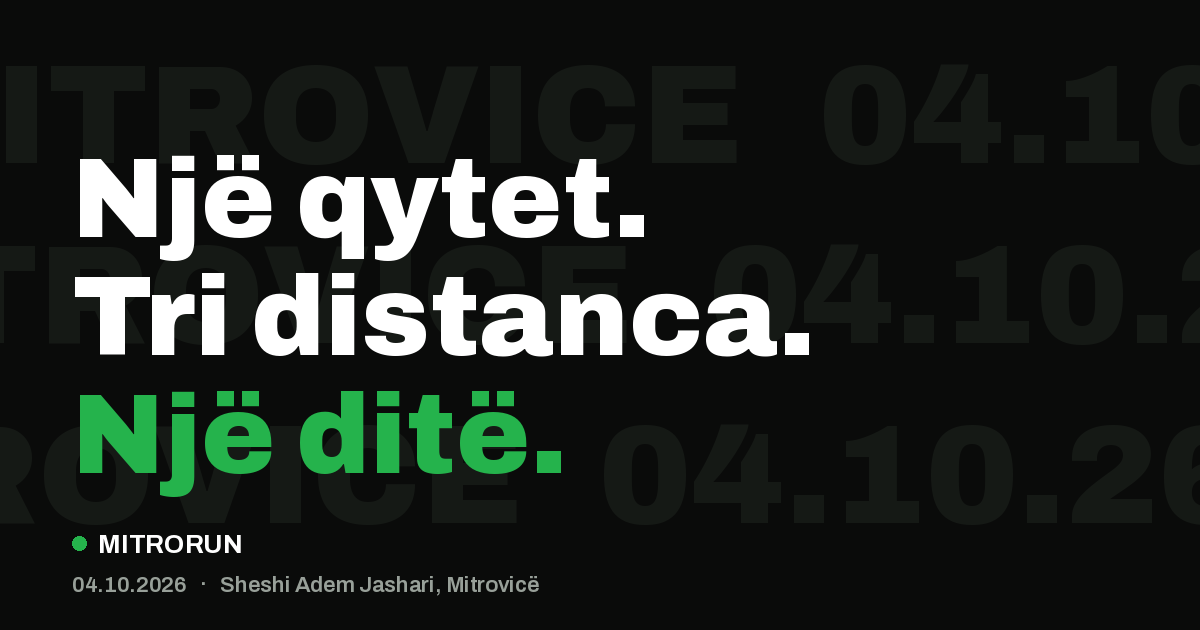
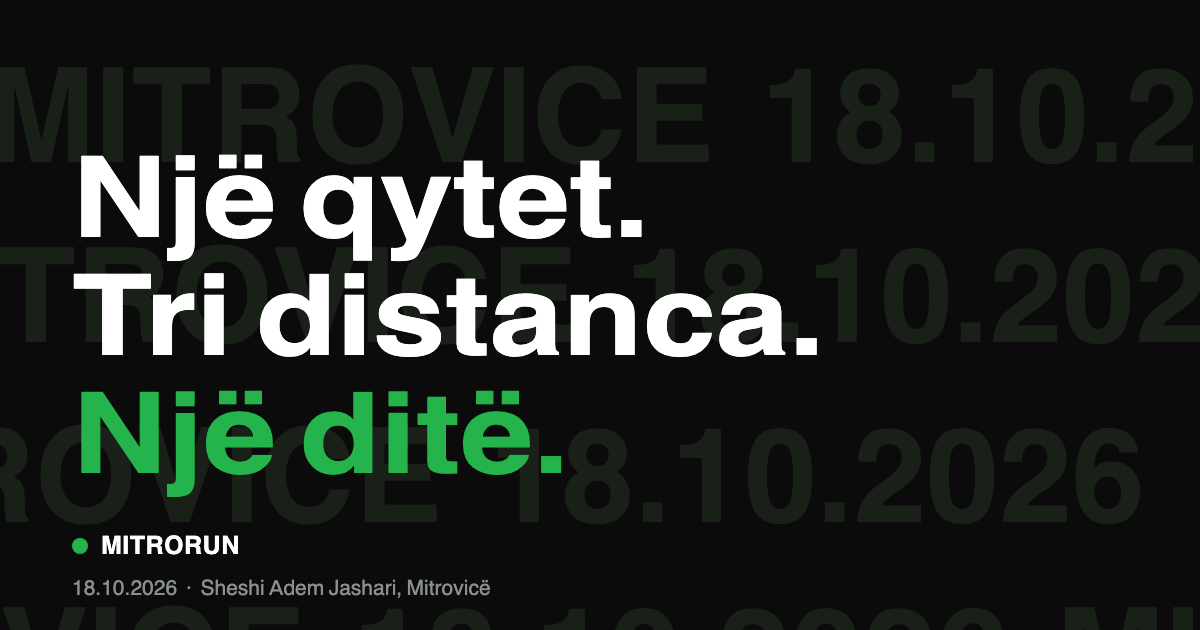
18 October, contact details, and a redrawn social preview
Mirrors the theme. The preview image had the date printed on it twice;
tools/og-image.html is the source it is drawn from, with the command to
re-render it, so the next date change does not mean rebuilding it from
measurements again.

The headline there is scaled horizontally rather than tracked out: the
original was set in a wider cut of Archivo than the static weights this
repository ships, and letter-spacing gave the right width with visibly
wrong texture.

diff --git a/index.html b/index.html
@@ -4,7 +4,7 @@
 <meta charset="UTF-8">
 <meta name="viewport" content="width=device-width,initial-scale=1,viewport-fit=cover">
 <title>MitroRun 2026 — Vrapimi i qytetit të Mitrovicës</title>
-<meta name="description" content="MitroRun. 2K për fëmijë, 5K dhe 10K për të rritur. 4 tetor 2026, Sheshi Adem Jashari, Mitrovicë.">
+<meta name="description" content="MitroRun. 2K për fëmijë, 5K dhe 10K për të rritur. 18 tetor 2026, Sheshi Adem Jashari, Mitrovicë.">
 <meta name="theme-color" content="#0A0B0A">
 <link rel="preconnect" href="https://images.pexels.com" crossorigin>
 <link rel="preload" href="assets/fonts/archivo-latin-900-normal.woff2" as="font" type="font/woff2" crossorigin>
@@ -21,13 +21,13 @@
 <meta property="og:site_name" content="MitroRun">
 <meta property="og:url" content="https://mitrorun.com/">
 <meta property="og:title" content="MitroRun 2026 — Vrapimi i qytetit të Mitrovicës">
-<meta property="og:description" content="2K për fëmijë, 5K dhe 10K për të rritur. 4 tetor 2026, Sheshi Adem Jashari, Mitrovicë.">
+<meta property="og:description" content="2K për fëmijë, 5K dhe 10K për të rritur. 18 tetor 2026, Sheshi Adem Jashari, Mitrovicë.">
 <meta property="og:image" content="https://mitrorun.com/assets/img/og-image.png">
 <meta property="og:image:width" content="1200">
 <meta property="og:image:height" content="630">
 <meta name="twitter:card" content="summary_large_image">
 <meta name="twitter:title" content="MitroRun 2026 — Vrapimi i qytetit të Mitrovicës">
-<meta name="twitter:description" content="2K për fëmijë, 5K dhe 10K për të rritur. 4 tetor 2026, Sheshi Adem Jashari, Mitrovicë.">
+<meta name="twitter:description" content="2K për fëmijë, 5K dhe 10K për të rritur. 18 tetor 2026, Sheshi Adem Jashari, Mitrovicë.">
 <meta name="twitter:image" content="https://mitrorun.com/assets/img/og-image.png">
 
 <script type="application/ld+json">
@@ -36,8 +36,8 @@
   "@type": "SportsEvent",
   "name": "MitroRun 2026",
   "description": "Vrapimi i qytetit të Mitrovicës. 2K për fëmijë, 5K dhe 10K për të rritur.",
-  "startDate": "2026-10-04T10:00:00+02:00",
-  "endDate": "2026-10-04T15:00:00+02:00",
+  "startDate": "2026-10-18T10:00:00+02:00",
+  "endDate": "2026-10-18T15:00:00+02:00",
   "eventStatus": "https://schema.org/EventScheduled",
   "eventAttendanceMode": "https://schema.org/OfflineEventAttendanceMode",
   "location": {
@@ -88,7 +88,7 @@
     <li><a href="#faq">Pyetje të shpeshta</a></li>
     <li><a href="#galeria">Galeria</a></li>
   </ul>
-  <div class="mf lbl on-dark"><span>04.10.2026</span><span>Sheshi Adem Jashari</span><span>Mitrovicë</span></div>
+  <div class="mf lbl on-dark"><span>18.10.2026</span><span>Sheshi Adem Jashari</span><span>Mitrovicë</span></div>
 </div>
 
 <main id="top">
@@ -122,7 +122,7 @@
     <a class="logo" href="#top"><img class="logo-mark" src="assets/img/logo.png" alt="" width="206" height="225" decoding="async"><span class="logo-name">MitroRun</span></a>
     <h1 class="tagline">Një qytet.<br>Tri distanca.<br><span>Një ditë.</span></h1>
     <div class="hero-meta">
-      <span>04.10.2026</span><span>Sheshi Adem Jashari</span><span>Regjistrim online</span>
+      <span>18.10.2026</span><span>Sheshi Adem Jashari</span><span>Regjistrim online</span>
     </div>
     <div class="hero-cta">
       <a class="btn" href="https://www.rave-travel.com/event-details-en.nspx?eventid=5175" target="_blank" rel="noopener">Regjistrohu online <span class="ar">→</span></a>
@@ -300,8 +300,8 @@
 <!-- ===================== STRIP ===================== -->
 <div class="strip" aria-hidden="true">
   <div class="tr">
-    <div><b>04.10.2026</b><i>◆</i><b>2K Shotat</b><i>◆</i><b>5K Lumi</b><i>◆</i><b>10K Liqeni</b><i>◆</i><b>Sheshi Adem Jashari</b><i>◆</i><b>Rock &amp; DJ</b><i>◆</i></div>
-    <div><b>04.10.2026</b><i>◆</i><b>2K Shotat</b><i>◆</i><b>5K Lumi</b><i>◆</i><b>10K Liqeni</b><i>◆</i><b>Sheshi Adem Jashari</b><i>◆</i><b>Rock &amp; DJ</b><i>◆</i></div>
+    <div><b>18.10.2026</b><i>◆</i><b>2K Shotat</b><i>◆</i><b>5K Lumi</b><i>◆</i><b>10K Liqeni</b><i>◆</i><b>Sheshi Adem Jashari</b><i>◆</i><b>Rock &amp; DJ</b><i>◆</i></div>
+    <div><b>18.10.2026</b><i>◆</i><b>2K Shotat</b><i>◆</i><b>5K Lumi</b><i>◆</i><b>10K Liqeni</b><i>◆</i><b>Sheshi Adem Jashari</b><i>◆</i><b>Rock &amp; DJ</b><i>◆</i></div>
   </div>
 </div>
 
@@ -560,6 +560,13 @@
       <div>
         <a class="logo" href="#top" style="margin-bottom:1.1rem"><img class="logo-mark" src="assets/img/logo.png" alt="" width="206" height="225" decoding="async"><span class="logo-name">MitroRun</span></a>
         <p style="color:rgba(255,255,255,.6);max-width:32ch">Vrapimi i qytetit të Mitrovicës. Organizuar nga 7arte dhe Komuna e Mitrovicës.</p>
+      <div class="fmeta">
+        <a href="mailto:info@mitro.run">info@mitro.run</a>
+        <div class="soc">
+          <a href="https://www.instagram.com/mitrorun/" target="_blank" rel="noopener">Instagram</a>
+          <a href="https://www.facebook.com/mitrorun" target="_blank" rel="noopener">Facebook</a>
+        </div>
+      </div>
       </div>
       <div><h4>Garat</h4><ul><li><a href="#garat">10K Liqeni</a></li><li><a href="#garat">5K Lumi</a></li><li><a href="#garat">2K Shotat</a></li><li><a href="#itinerari">Itinerari</a></li></ul></div>
       <div><h4>Për vrapuesit</h4><ul><li><a href="/kushtet-e-pjesemarrjes/">Kushtet dhe rregullat e garës</a></li><li><a href="#shperblimet">Shpërblimet</a></li><li><a href="#programi">Pakoja &amp; Programi</a></li><li><a href="#faq">Pyetje të shpeshta</a></li></ul></div>
@@ -575,7 +582,7 @@
 <a id="totop" href="#top" aria-label="Kthehu lart"><span class="ar">&rarr;</span></a>
 
 <div id="stick">
-  <div class="t"><b>04.10.2026</b>Sheshi Adem Jashari</div>
+  <div class="t"><b>18.10.2026</b>Sheshi Adem Jashari</div>
   <a class="btn sm" href="https://www.rave-travel.com/event-details-en.nspx?eventid=5175" target="_blank" rel="noopener">Regjistrohu</a>
 </div>
 
@@ -600,7 +607,7 @@ window.MitroRun = {
   // Course map is off until the route is approved by the municipality.
   // In WordPress this is MitroRun > Settings > Map. Flip to true to preview it.
   showMap: false,
-  raceDate: '2026-10-04T11:00:00+02:00',
+  raceDate: '2026-10-18T11:00:00+02:00',
   start: [42.8901, 20.8672],
   i18n: { startFinish:'Start / Finish', km:'km', minKm:'min/km' },
   routes: {

diff --git a/tools/og-image.html b/tools/og-image.html
@@ -1,0 +1,45 @@
+<!doctype html><html><head><meta charset="utf-8">
+<style>
+@font-face{font-family:'Archivo';src:url('../assets/fonts/archivo-latin-ext-400-normal.woff2') format('woff2');font-weight:400;font-display:block}
+@font-face{font-family:'Archivo';src:url('../assets/fonts/archivo-latin-ext-800-normal.woff2') format('woff2');font-weight:800;font-display:block}
+@font-face{font-family:'Archivo';src:url('../assets/fonts/archivo-latin-ext-900-normal.woff2') format('woff2');font-weight:900;font-display:block}
+*{margin:0;padding:0;box-sizing:border-box}
+html,body{width:1200px;height:630px;overflow:hidden}
+body{background:#0A0B0A;color:#fff;font-family:'Archivo',sans-serif;position:relative}
+.ghost{position:absolute;inset:0;overflow:hidden;color:#182018;
+  font-size:131px;font-weight:900;line-height:180px;white-space:nowrap;padding-top:29px}
+.in{position:absolute;left:72px;top:141px;right:0}
+h1{font-size:112px;font-weight:900;line-height:118px;letter-spacing:normal;transform:scaleX(1.172);transform-origin:left top}
+h1 .g{color:#25B34C}
+.brand{position:absolute;left:72px;bottom:70px;display:flex;align-items:center;gap:13px;
+  font-size:25px;font-weight:800;letter-spacing:.02em}
+.dot{width:16px;height:16px;border-radius:50%;background:#25B34C}
+.meta{position:absolute;left:72px;bottom:30px;font-size:21px;font-weight:400;color:#8A918B}
+</style></head><body>
+<div class="ghost">
+  <div style="transform:translateX(-14px)">MITROVICE&nbsp; 18.10.2026&nbsp; MITROVICE</div>
+  <div style="transform:translateX(-150px)">MITROVICE&nbsp; 18.10.2026&nbsp; MITROVICE</div>
+  <div style="transform:translateX(-286px)">MITROVICE&nbsp; 18.10.2026&nbsp; MITROVICE</div>
+  <div style="transform:translateX(-422px)">MITROVICE&nbsp; 18.10.2026&nbsp; MITROVICE</div>
+          </div>
+<div class="in"><h1>Një qytet.<br>Tri distanca.<br><span class="g">Një ditë.</span></h1></div>
+<div class="brand"><span class="dot"></span>MITRORUN</div>
+<div class="meta">18.10.2026 &nbsp;·&nbsp; Sheshi Adem Jashari, Mitrovicë</div>
+</body></html>
+<!--
+  Source for assets/img/og-image.png, the 1200x630 social preview.
+
+  The date is baked into the picture, so it has to be re-rendered whenever the
+  race date moves. Serve the repo and screenshot this page at 1200x630:
+
+    python3 -m http.server 8000
+    "/Applications/Google Chrome.app/Contents/MacOS/Google Chrome" --headless \
+      --window-size=1200,630 --default-background-color=0A0B0AFF \
+      --screenshot=assets/img/og-image.png http://localhost:8000/tools/og-image.html
+
+  The headline is scaled horizontally rather than tracked out: the original was
+  set in a wider cut of Archivo than the static weights shipped here, and adding
+  letter-spacing gave the right width with visibly wrong texture.
+
+  Copy the result to the theme's assets/img/ as well.
+-->

diff --git a/assets/css/style.css b/assets/css/style.css
@@ -525,6 +525,11 @@ footer{background:var(--black);color:#fff;
 .fgrid ul{list-style:none;display:grid;gap:.55rem;font-size:.94rem}
 .fgrid a{color:rgba(255,255,255,.82);transition:color .25s}
 .fgrid a:hover{color:var(--green)}
+/* Contact under the footer blurb. The Kontakt column is gone, and an address
+   and two profiles do not need one back. */
+.fmeta{margin-top:1.2rem;display:grid;gap:.5rem;justify-items:start;font-size:.92rem}
+.fmeta .soc{display:flex;flex-wrap:wrap;gap:.4rem 1rem}
+
 .fbot{margin-top:3rem;padding-top:1.4rem;border-top:1px solid var(--line-dk);display:flex;
   flex-wrap:wrap;gap:.6rem 1.6rem;font-size:.74rem;color:var(--muted-dk)}
 /* Back to top. Sits clear of the fixed CTA bar on small screens, where that bar

diff --git a/assets/js/main.js b/assets/js/main.js
@@ -27,7 +27,7 @@ mn.addEventListener('click',function(e){
 });
 
 var CFG=window.MitroRun||{};
-var T=new Date(CFG.raceDate||'2026-10-04T11:00:00+02:00').getTime(),
+var T=new Date(CFG.raceDate||'2026-10-18T11:00:00+02:00').getTime(),
     E={d:d.getElementById('cd-d'),h:d.getElementById('cd-h'),m:d.getElementById('cd-m'),s:d.getElementById('cd-s')};
 function p2(n){return n<10?'0'+n:''+n}
 function tick(){

diff --git a/README.md b/README.md
@@ -1,7 +1,7 @@
 # MitroRun 2026
 
 Landing page for MitroRun, the city run of Mitrovica, Kosovo.
-4 October 2026, start and finish at Sheshi Adem Jashari.
+18 October 2026, start and finish at Sheshi Adem Jashari.
 
 Organised by **7ARTE** and the running club **MitRun**.
 Built by [PAPINGU](https://papingu.com).
@@ -46,6 +46,7 @@ Total page weight excluding photographs and map tiles: roughly 250 KB.
 ```
 .
 ├── index.html                  single page, all sections + runtime config
+├── tools/og-image.html      source for the social preview, re-render when the date moves
 ├── assets/
 │   ├── css/style.css           design tokens + all styles (copy of the theme's main.css)
 │   ├── js/main.js              nav, countdown, reveals, gallery, maps, pace tool (copy of the theme's main.js)
@@ -75,6 +76,10 @@ Upload the folder. There is nothing to compile.
 Set the real domain in `index.html`: the `canonical`, `og:url` and `og:image` tags
 currently point at `https://mitrorun.com/`.
 
+The social preview at `assets/img/og-image.png` has the date printed on it. It is
+generated from `tools/og-image.html`; the instructions are at the bottom of that
+file. Re-render it and copy it to the theme whenever the date changes.
+
 ---
 
 ## Editing content
@@ -99,7 +104,7 @@ Everything the JavaScript needs sits in one block at the bottom of `index.html`:
 ```js
 window.MitroRun = {
   showMap: false,
-  raceDate: '2026-10-04T11:00:00+02:00',
+  raceDate: '2026-10-18T11:00:00+02:00',
   start: [42.8901, 20.8672],
   routes: { ... }
 };
@@ -177,7 +182,6 @@ All tokens are at the top of `assets/css/style.css`:
 - [ ] Set the real domain and re-check the Open Graph tags
 - [ ] Decide on CARTO tiles vs a paid provider if race-weekend traffic is expected
 - [ ] Add a cookie and privacy page if any analytics are introduced
-- [ ] Register the Instagram and Facebook handles used in the footer
 
 ## Licence and credits
 
